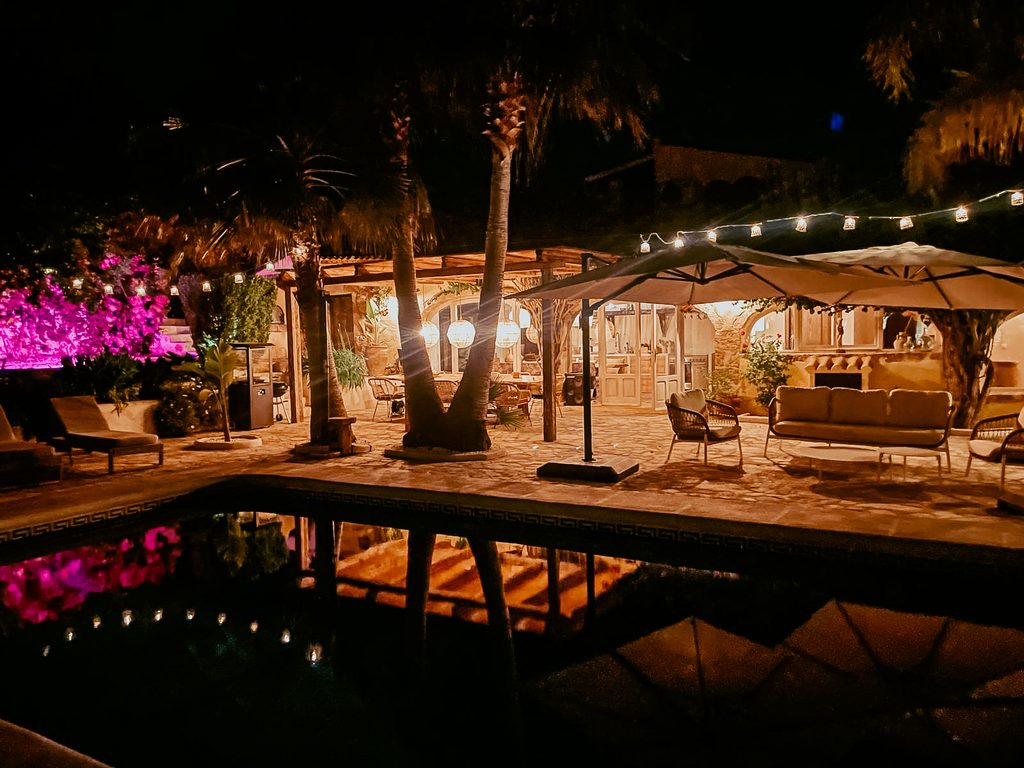
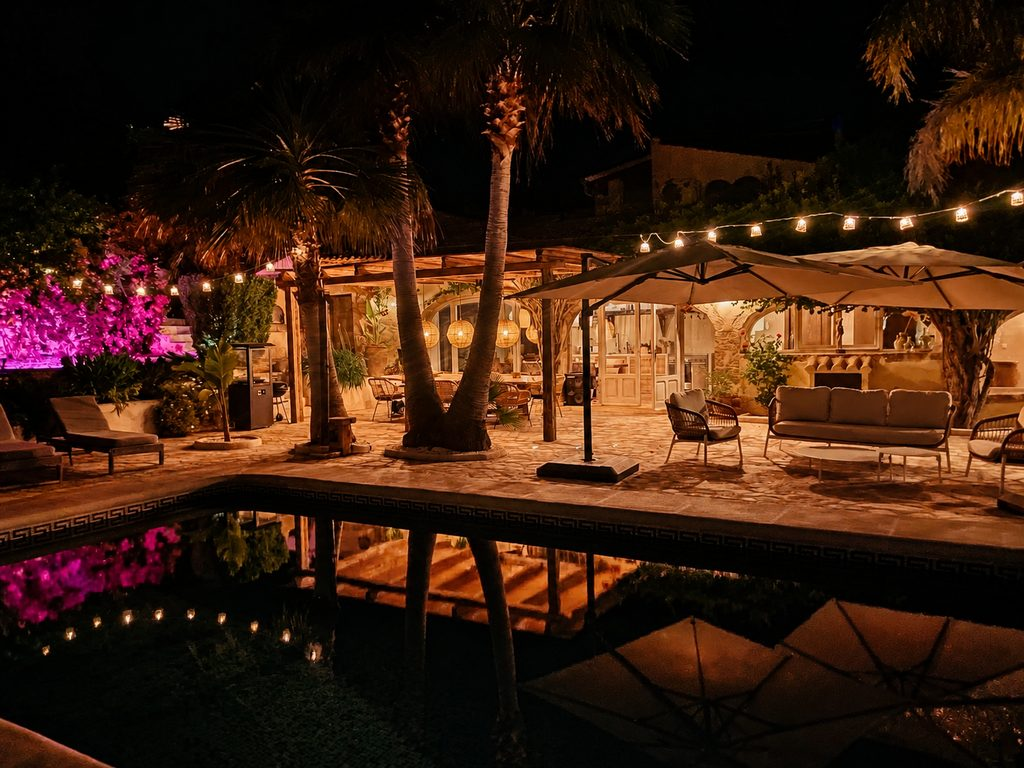
Avondfoto vervangen door kleurgecorrigeerde versie
photo-2025-05-22-09-44-07-4 (hero-slide 4 en galerij), afstand 35,
correlatie 0,96, met het oog bevestigd: zelfde opname, zonder
dichtgelopen lichtpunten bij de lampen. Beide verwijzingen bijgewerkt;
max van 1600 naar 1448px.

Doorgetest op geëmuleerde iPhone en MacBook: geen regressies.

Claude-Session: https://claude.ai/code/session_013UnB3bHaxkZnj5vBS3fQba

diff --git a/index.html b/index.html
@@ -1346,7 +1346,7 @@
   <img srcset="images/bank-binnen-hero-640.jpg 640w, images/bank-binnen-hero-1024.jpg 1024w, images/bank-binnen-hero-1280.jpg 1280w, images/bank-binnen-hero-1448.jpg 1448w" sizes="100vw" src="images/bank-binnen-hero-1448.jpg" alt="" loading="eager" decoding="async" fetchpriority="high" class="is-active" />
   <img srcset="images/photo-2025-05-22-09-41-58-16-640.jpg 640w, images/photo-2025-05-22-09-41-58-16-1024.jpg 1024w, images/photo-2025-05-22-09-41-58-16-1280.jpg 1280w, images/photo-2025-05-22-09-41-58-16-1448.jpg 1448w" sizes="100vw" src="images/photo-2025-05-22-09-41-58-16-1448.jpg" alt="" loading="lazy" decoding="async" />
   <img srcset="images/zwembad-drone-640.jpg 640w, images/zwembad-drone-1024.jpg 1024w, images/zwembad-drone-1280.jpg 1280w, images/zwembad-drone-1600.jpg 1600w, images/zwembad-drone-2000.jpg 2000w" sizes="100vw" src="images/zwembad-drone-2000.jpg" alt="" loading="lazy" decoding="async" />
-  <img srcset="images/photo-2025-05-22-09-44-07-4-640.jpg 640w, images/photo-2025-05-22-09-44-07-4-1024.jpg 1024w, images/photo-2025-05-22-09-44-07-4-1280.jpg 1280w, images/photo-2025-05-22-09-44-07-4-1600.jpg 1600w" sizes="100vw" src="images/photo-2025-05-22-09-44-07-4-1600.jpg" alt="" loading="lazy" decoding="async" />
+  <img srcset="images/photo-2025-05-22-09-44-07-4-640.jpg 640w, images/photo-2025-05-22-09-44-07-4-1024.jpg 1024w, images/photo-2025-05-22-09-44-07-4-1280.jpg 1280w, images/photo-2025-05-22-09-44-07-4-1448.jpg 1448w" sizes="100vw" src="images/photo-2025-05-22-09-44-07-4-1448.jpg" alt="" loading="lazy" decoding="async" />
 </div>
       <div class="hero-overlay"></div>
     </div>
@@ -1578,7 +1578,7 @@
       <div class="g span-4 is-portrait reveal-l"><img srcset="images/niche-01-full-640.jpg 640w, images/niche-01-full-1024.jpg 1024w, images/niche-01-full-1280.jpg 1280w, images/niche-01-full-1600.jpg 1600w, images/niche-01-full-1950.jpg 1950w" sizes="(max-width: 560px) 100vw, (max-width: 900px) calc(33vw - 32px), (max-width: 1180px) calc(33vw - 32px), 363px" src="images/niche-01-full-1950.jpg" alt="Nis in de trapwand met terracotta kruik" loading="lazy" decoding="async"></div>
 
       <!-- Avond -->
-      <div class="g span-12 reveal-l"><img srcset="images/photo-2025-05-22-09-44-07-4-640.jpg 640w, images/photo-2025-05-22-09-44-07-4-1024.jpg 1024w, images/photo-2025-05-22-09-44-07-4-1280.jpg 1280w, images/photo-2025-05-22-09-44-07-4-1600.jpg 1600w" sizes="(max-width: 560px) 100vw, (max-width: 1180px) calc(100vw - 56px), 1120px" src="images/photo-2025-05-22-09-44-07-4-1600.jpg" alt="Het verlichte terras en zwembad in de avond" loading="lazy" decoding="async"></div>
+      <div class="g span-12 reveal-l"><img srcset="images/photo-2025-05-22-09-44-07-4-640.jpg 640w, images/photo-2025-05-22-09-44-07-4-1024.jpg 1024w, images/photo-2025-05-22-09-44-07-4-1280.jpg 1280w, images/photo-2025-05-22-09-44-07-4-1448.jpg 1448w" sizes="(max-width: 560px) 100vw, (max-width: 1180px) calc(100vw - 56px), 1120px" src="images/photo-2025-05-22-09-44-07-4-1448.jpg" alt="Het verlichte terras en zwembad in de avond" loading="lazy" decoding="async"></div>
     </div>
 
   </div>
